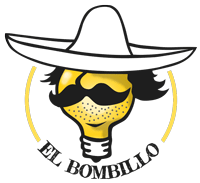
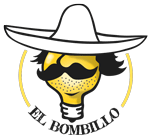
added angle image

diff --git a/el-bombillo-ui/src/main/resources/webapp/sass/main.scss b/el-bombillo-ui/src/main/resources/webapp/sass/main.scss
@@ -2,10 +2,32 @@
 @import "../../../../../bower_components/foundation/scss/foundation/components/grid";
 @import "fonts";
 
-$background-color:  #fff;
-$font-color: #222;
+html, html a {
+  font-size: 100%;
 
-body {
-  background-color: $background-color;
-  color: $font-color;
+  box-sizing: border-box;
+  -moz-box-sizing: border-box;
+  -webkit-box-sizing: border-box;
+}
+
+$default-padding: 16px;
+
+body > header {
+  width: 100%;
+  padding-top: 16px;
+  padding-left: 32px;
+  padding-bottom: 50px;
+
+  background: url('../img/angle-top.png') no-repeat right bottom;
+
+  img.logo {
+    width: 10%;
+    min-width: 100px;
+    max-width: 150px;
+    height: auto;
+  }
+}
+
+main {
+  background-color: #ffdc54;
 }

diff --git a/el-bombillo-ui/src/main/resources/webapp/index.html b/el-bombillo-ui/src/main/resources/webapp/index.html
@@ -15,9 +15,7 @@
 <body>
 
 <header>
-    <div class="logo">
-        <img src="img/elbombillo.png"/>
-    </div>
+    <img class="logo" src="img/elbombillo.png"/>
 </header>
 
 <main ng-view></main>

diff --git a/el-bombillo-ui/src/main/resources/webapp/sass/fonts.scss b/el-bombillo-ui/src/main/resources/webapp/sass/fonts.scss
@@ -55,3 +55,7 @@ $default-font-size: 1em;
     weight: normal;
   }
 }
+
+h1, h2, h3, h4, h5, h6 {
+  @include font-h1();
+}
